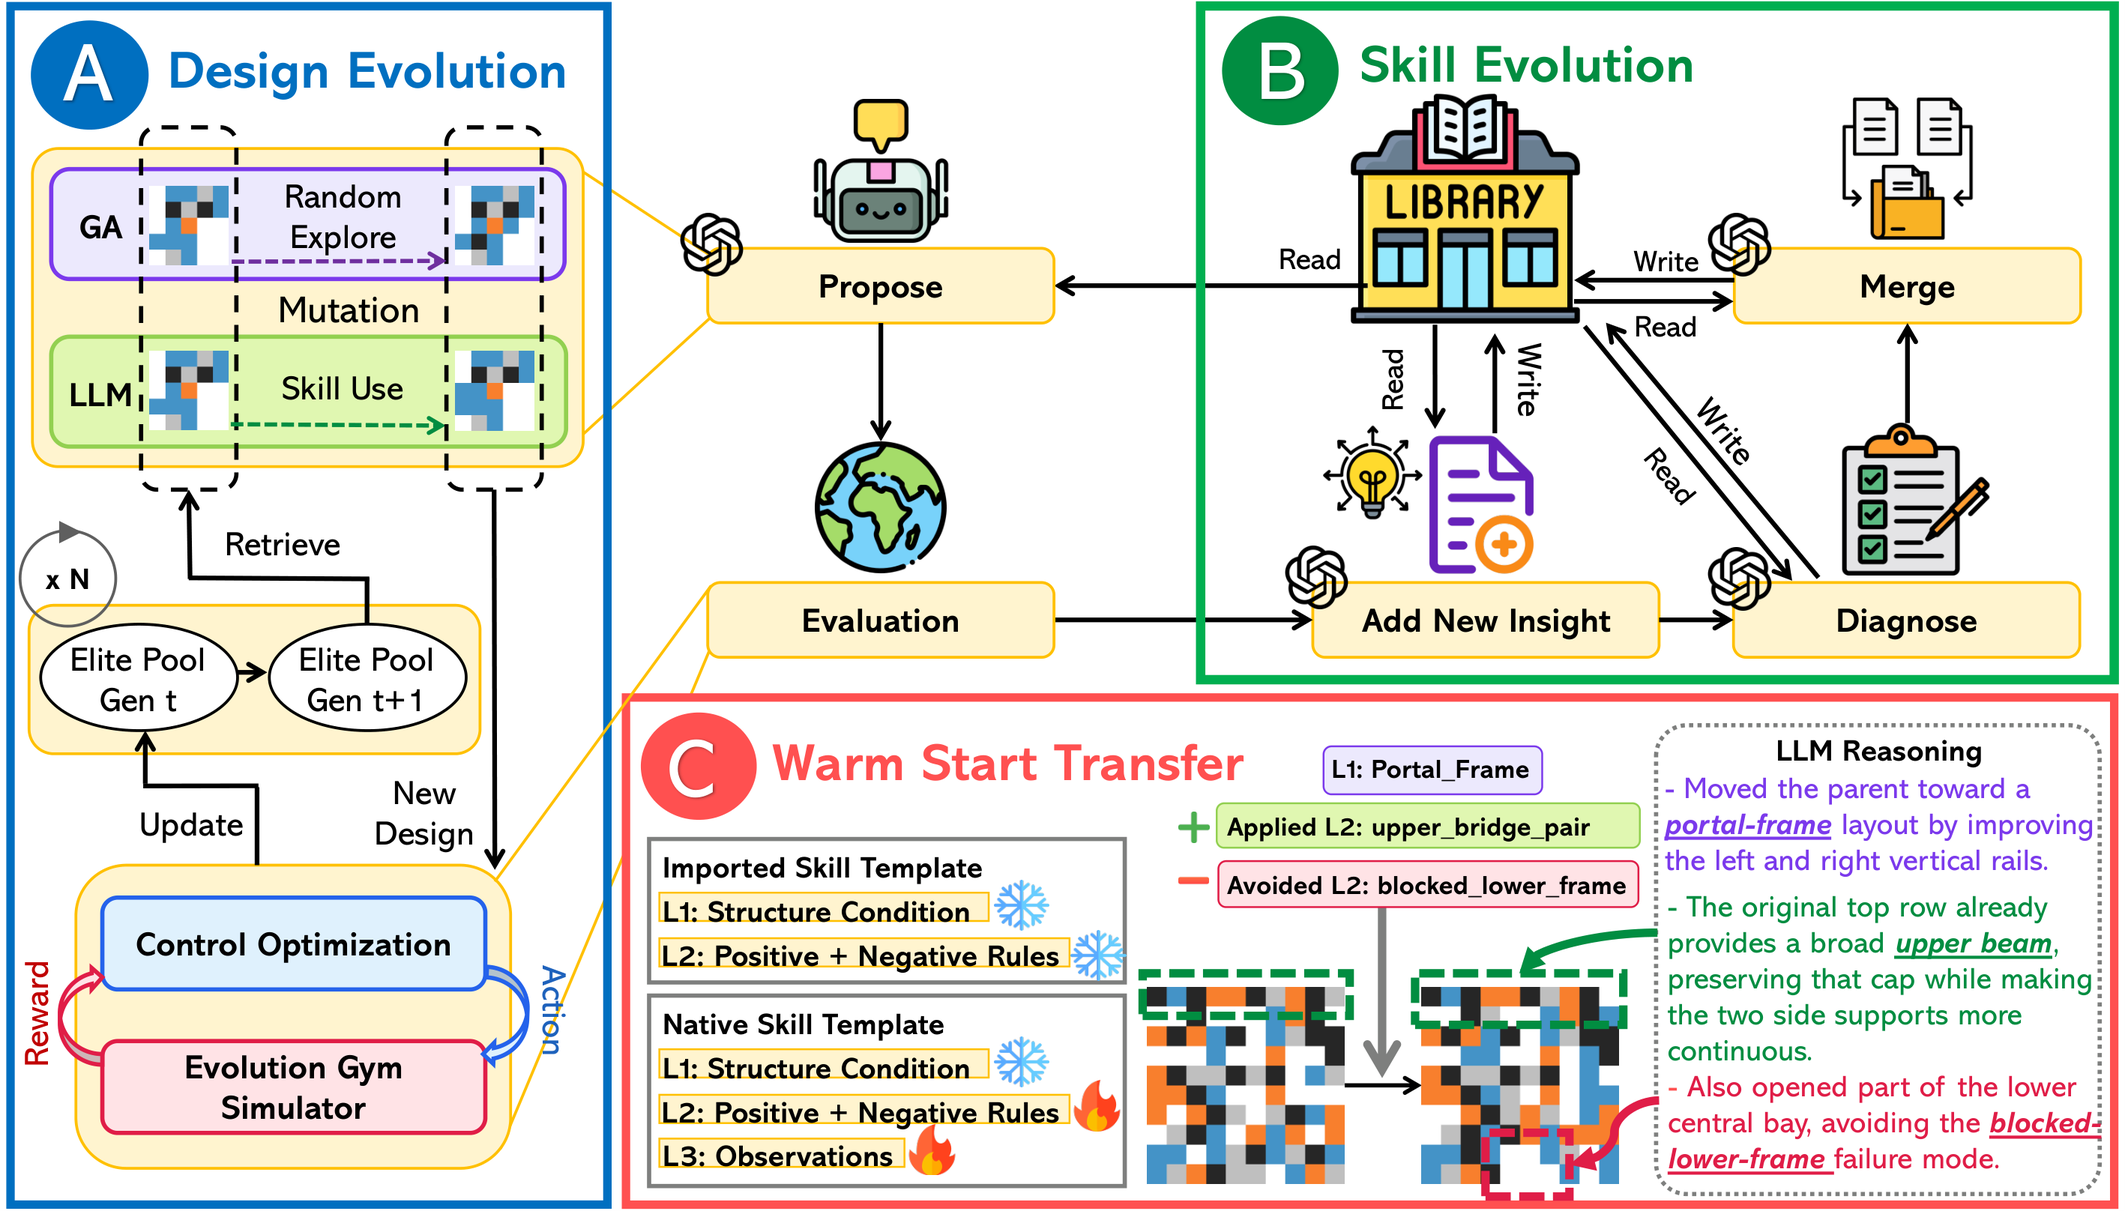
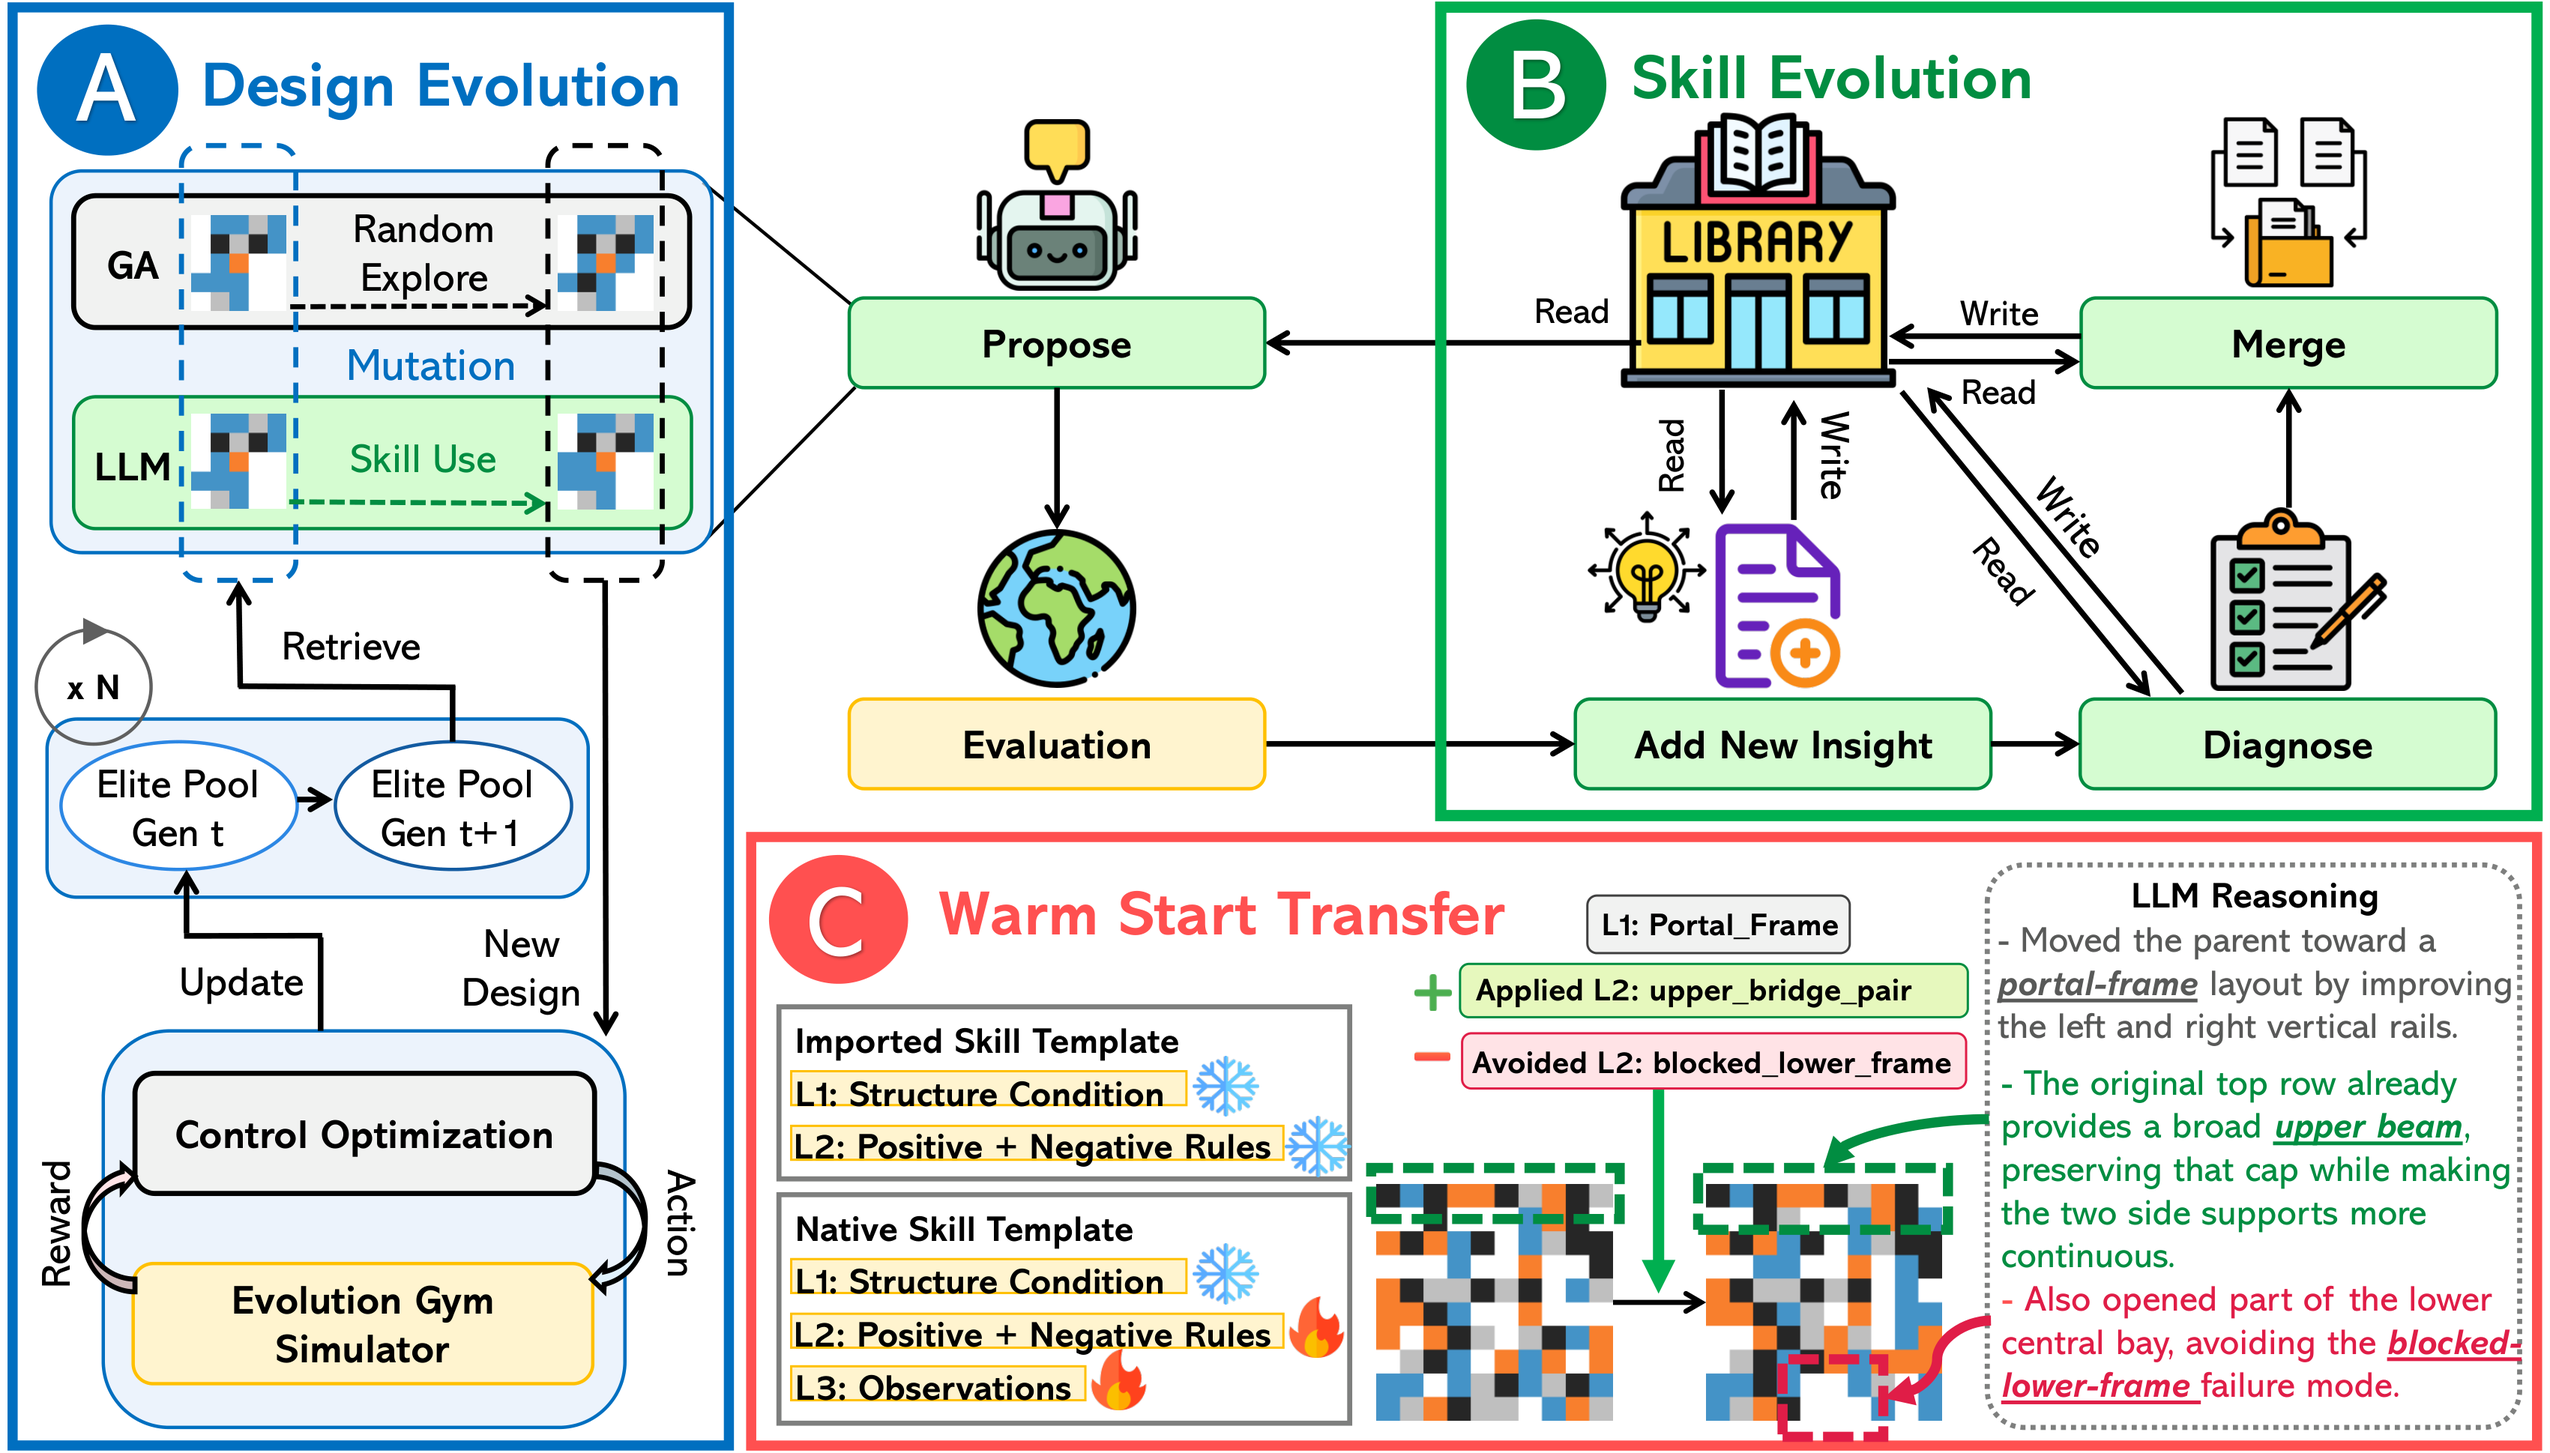
update figures

diff --git a/README.md b/README.md
@@ -24,7 +24,7 @@ Each skill is a three-level record:
 Because rules name *relations among functional parts* rather than absolute voxel coordinates, a `5×5` principle can guide a `10×10` search without any voxel upsampling — the LLM weights stay fixed; the explicit design memory is what evolves.
 
 <p align="center">
-  <img src="images/auto_robotist/autorobotist-pipeline.png" alt="Pipeline" width="900"/>
+  <img src="images/auto_robotist/autorobotist-pipeline.png" alt="Auto-Robotist overview: design evolution, skill evolution, and warm-start transfer" width="900"/>
 </p>
 
 ---
@@ -37,8 +37,10 @@ Across seven EvoGym tasks (Walker, BridgeWalker, Balancer, Carrier, Climber, Jum
 - **5×5 → 10×10 transfer.** Importing the learned library beats GA on **all seven** tasks. A skill-only variant (no source body shown) confirms gains come from *rules*, not visual imitation.
 
 <p align="center">
-  <img src="images/auto_robotist/exp_combined_5x5_10x101.png" alt="Fitness curves" width="900"/>
+  <img src="images/auto_robotist/exp_combined_5x5_10x10_smoothed.png" alt="Smoothed fitness curves across seven EvoGym tasks: 5×5 cold-start (top) and 10×10 transfer (bottom)" width="900"/>
 </p>
+
+The top row shows 5×5 cold-start search; the bottom row shows 10×10 transfer. Shaded regions indicate mean ± standard deviation for the corresponding Auto-Robotist curves.
 
 <p align="center">
   <img src="images/auto_robotist/auto-robotist-comparison.png" alt="Cross-method comparison" width="900"/>
